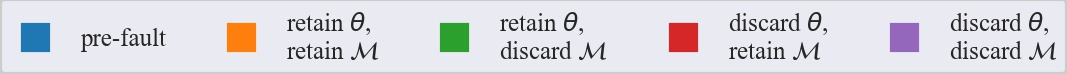
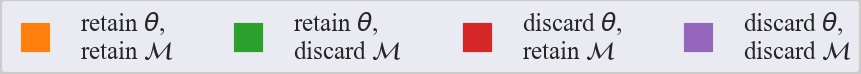
updates

Changed region(s): [[0.6039, 0.1622, 0.9965, 0.8108], [0.2718, 0.1622, 0.5738, 0.8108], [0.0, 0.1622, 0.2416, 0.8108]]

diff --git a/plot/paper/bar_plot.py b/plot/paper/bar_plot.py
@@ -310,14 +310,14 @@ def plot_bar_plots():
 
 
 def legend():
-    fig, ax = plt.subplots(figsize=(4, 0.25))
+    fig, ax = plt.subplots(figsize=(3, 0.24))
     ax.axis("off")
 
     f = lambda m, c: plt.plot([], [], marker=m, color=c, ls="none")[0]
-    handles = [f("s", palette_colours[i]) for i in range(5)]
+    handles = [f("s", palette_colours[i]) for i in range(1,5)]
     theta = r"$\theta$"
     emmm = r"$\mathcal{M}$"
-    labels = ["pre-fault", f"retain {theta},\nretain {emmm}",
+    labels = [f"retain {theta},\nretain {emmm}",
               f"retain {theta},\ndiscard {emmm}",
               f"discard {theta},\nretain {emmm}",
               f"discard {theta},\ndiscard {emmm}"]
